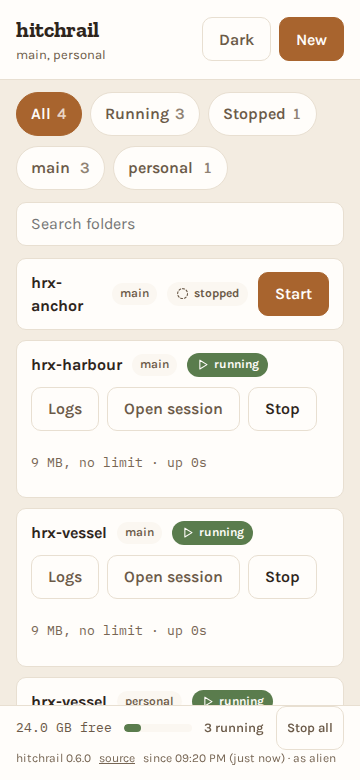
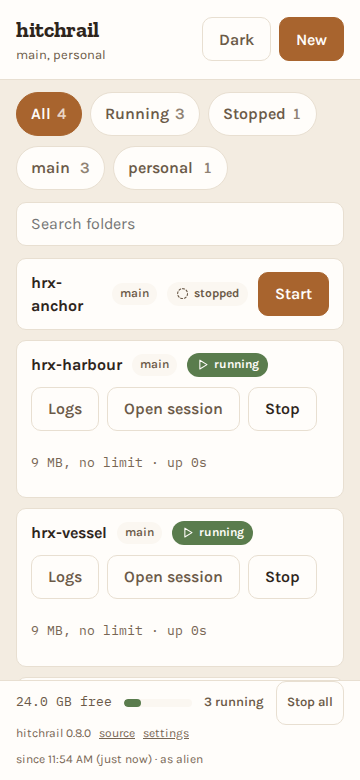
chore(release): bump version to 0.8.0
Phase 14, the perimeter chosen rather than assumed. Screenshots
regenerated: the settings link and the End control are on the phone
list now, and the footer reads 0.8.0.

Claude-Session: https://claude.ai/code/session_01EYofRDfBhZa5uRYwT1aA3W

Changed region(s): [[0.0, 0.8615, 1.0, 0.9846]]

diff --git a/CHANGELOG.md b/CHANGELOG.md
@@ -32,8 +32,18 @@ While the version is `0.y.z`, a breaking change may ship as a MINOR.
 
 ## Unreleased
 
+## 0.8.0 - 2026-09-16
+
 Phase 14: the perimeter, chosen rather than assumed. Upgrading is safe with
-no action: every flag still works and still wins.
+no action: every flag still works and still wins. Two things worth knowing
+before you do: `--stop 60` no longer stands in for `--stop-timeout 60`
+(flags are exact now), and a config file writable by others, or owned by
+somebody else, refuses to start.
+
+Still not protected, and stated so it is read rather than discovered:
+Hitchrail does not sandbox the sessions it starts, and over plain HTTP on a
+LAN the token crosses the network in cleartext, which `--tls-cert` now ends
+from the server itself.
 
 ### Added
 
